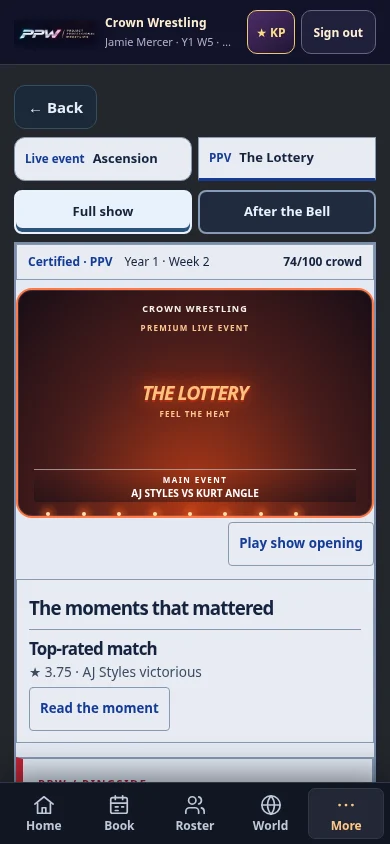
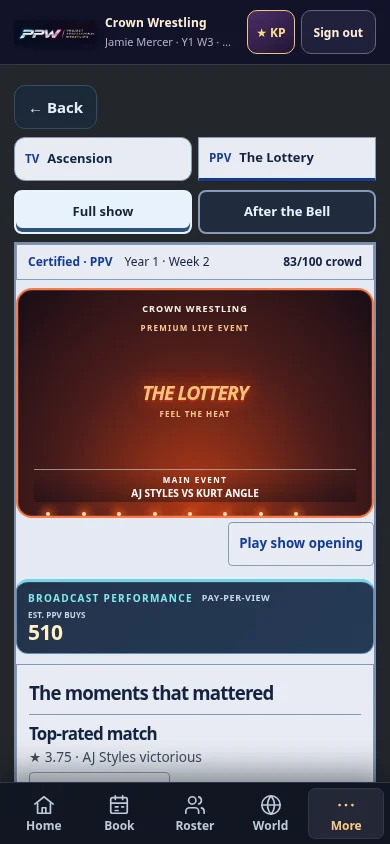
Document commercial certification and preserve the purchased result presentation

Changed region(s): [[0.0308, 0.6777, 0.9846, 0.9242], [0.0615, 0.1848, 0.4, 0.2156], [0.7385, 0.3081, 0.7692, 0.3389]]

diff --git a/tests/browser/milestone8-visual.spec.ts b/tests/browser/milestone8-visual.spec.ts
@@ -9,6 +9,7 @@ import {accessCode,disposableDatabaseUrl,managerId,promotionId} from "../fixture
 
 const worldId=process.env.PPW_M8_EXISTING_WORLD;
 const evidence=process.env.PPW_M8_EVIDENCE;
+const commercial=process.env.PPW_M8_COMMERCIAL==="1";
 test.skip(!worldId||!evidence||!process.env.PPW_M8_DATABASE_URL,
  "Use the existing disposable World from the completed authenticated journey.");
 
@@ -23,6 +24,17 @@ test("certified PPV reopens with the purchased skin and its animated event poste
    "SELECT receipt_digest AS digest FROM ppw_completed_shows WHERE world_id=$1 AND show_id='the-lottery'",
    [worldId!]));
   expect(result?.digest).toMatch(/^[a-f0-9]{64}$/);
+  if(commercial){
+   const economics=await withWorldTransaction(db.pool,tx=>tx.query<{
+    audience_format:string;ppv_buys:number|null;tv_household_rating:number|null;
+   }>(`SELECT audience_format, ppv_buys::integer, tv_household_rating::double precision
+    FROM ppw_show_economics WHERE world_id=$1 AND promotion_id=$2 AND week=2 ORDER BY audience_format`,
+    [worldId!,promotionId]));
+   expect(economics).toEqual([
+    {audience_format:"PPV",ppv_buys:expect.any(Number),tv_household_rating:null},
+    {audience_format:"TV",ppv_buys:null,tv_household_rating:expect.any(Number)},
+   ]);
+  }
   // Local evidence wallet credit supplies starting cosmetic points once. The
   // actual purchase and application still use the released game commands.
   await withWorldTransaction(db.pool,tx=>tx.query(`INSERT INTO ppw_kp_wallets(player_id,balance,lifetime_earned)
@@ -51,6 +63,16 @@ test("certified PPV reopens with the purchased skin and its animated event poste
    await archive();
    await openPpv();
    await expect(page.locator(".ppw-results")).toBeVisible();
+   await expect(page.locator(".ppw-results-event-poster [data-poster='inferno']")).toBeVisible();
+   if(commercial){
+    const week=page.getByRole("navigation",{name:"Certified shows this week"});
+    await expect(week).toContainText("PPV");
+    await week.getByRole("button",{name:/TV.*Ascension/i}).tap();
+    await expect(week.locator("[aria-current='page']")).toContainText("Ascension");
+    await page.screenshot({path:join(evidence!,"certified-tv.png"),animations:"disabled"});
+    await week.getByRole("button",{name:/PPV.*The Lottery/i}).tap();
+    await expect(week.locator("[aria-current='page']")).toContainText("The Lottery");
+   }
    await page.screenshot({path:join(evidence!,"certified-ppv.png"),animations:"disabled"});
    const after=page.getByRole("button",{name:"After the Bell",exact:true});
    await after.tap();
@@ -66,6 +88,7 @@ test("certified PPV reopens with the purchased skin and its animated event poste
    await openPpv();
    const report=page.locator(".ppw-results[data-results-skin='retro-booker-02']");
    await expect(report).toBeVisible();
+   await expect(report.locator(".ppw-results-event-poster [data-poster='inferno']")).toBeVisible();
    await page.screenshot({path:join(evidence!,"cosmetic-skin.png"),animations:"disabled"});
    await page.reload();
    await expect(report).toBeVisible();

diff --git a/docs/milestone-8-evidence/README.md b/docs/milestone-8-evidence/README.md
@@ -1,6 +1,6 @@
 # Milestone 8 verification
 
-The comparison starts at the accepted Milestone 7 release `0b2c5f940169d120811915eeff7cf603925698a3`. The tests used the production web bundle, invite authentication, HTTP adapter and manual World controls with PostgreSQL 16 and migrations 0001–0170 in separate disposable databases. The worlds used no production data or provider credentials.
+The comparison starts at the accepted Milestone 7 release `0b2c5f940169d120811915eeff7cf603925698a3`. The tests used the production web bundle, invite authentication, HTTP adapter and manual World controls with PostgreSQL 16.16 and migrations 0001–0170 in separate disposable databases. Node.js 24.22.3 and Chromium 156.0.8078.79 ran in the Personal Codex workspace. The worlds used disposable data and the harness disabled external provider credentials.
 
 ## Recorded play
 
@@ -19,6 +19,22 @@ The [four-week browser journey](four-weeks-430.mp4) uses a 430px Chromium touch 
 
 Two separately migrated databases began with World ID `m8-branch-comparison`, seed `8213`, the same cards, contracts, programme and initial championship lineage. In one, Will Ospreay won the Week 2 title match and defended in Week 4. In the other, Samoa Joe retained and completed two defences. Both produced four seals, four Crown events in weeks 1, 2, 2 and 4, and certified programme chapters in weeks 2 and 4. Alex Shelley’s existing appearance promise closed as fulfilled on Week 1 certification. A separate 320px journey signed in a new player, joined, claimed Crown Wrestling, booked, manually advanced and reached the new week. The 13-week PostgreSQL regression certified eight simulated promotions.
 
+A separate commercial fixture enabled the existing market and show economics before Week 1. The operator certified Ascension and The Lottery in the same Week 2. Ascension recorded a 0.11 TV household rating, 185,000 estimated viewers and $110,400 net. The Lottery recorded 510 estimated PPV buys and $101,400 net. The cosmetic follow-up bought and applied Retro Booker ’02 on the certified PPV and checked the wallet across reload. [Commercial PPV](candidate-certified-premium-result.webp) · [After the Bell](candidate-after-the-bell.webp) · [Selected skin and event poster](candidate-cosmetic-skin.webp)
+
+## Scenario coverage
+
+| Required scenario | Verification |
+| --- | --- |
+| New account and existing save | Real invite authentication, World join, promotion claim and first-show certification at 320px. Established Crown save checked at 390 and 430px. |
+| Ordinary booking and advanced freedom | Matched ordinary three-match trial. Steel Cage, authored finish, title and existing programme in the four-week run. Existing booking suites cover team, interference, longer matches and angles. |
+| Different creative choices and title lineage | Same starting title programme twice. One certified change of champion and a later defence. Alternative certified two defences by the original champion. |
+| Backstage consequences | Existing appearance promise fulfilled by the certified opener. Scoped promise and contract tests cover alternate outcomes, expiry, medical and renewal. |
+| Event calendar and competition | Two owner events in Week 2, distinct certified TV and PPV performance in the commercial fixture, no owner event in Week 3. |
+| Multiplayer ownership and resource clearance | Two signed browser contexts, a shared venue conflict, independent readiness and publication after authorised arbitration. [Multiplayer journey](../../tests/browser/milestone8-multiplayer.spec.ts) |
+| Refresh, retries and recoverability | Certified PPV reopened without a second wallet or result settlement. Stale booking and interruption scenarios covered by existing browser and resolver regressions. |
+| Existing cosmetics and press | Applied Retro Booker ’02 with an assigned Inferno poster, retained through browser reload. Results and press regressions cover optional presentation and immediate full-show access. |
+| Accessibility and presentation | 320, 390 and 430px mobile widths, desktop capture and four weeks with keyboard and reduced motion. |
+
 ## Comparative workloads
 
 Each baseline and candidate World size has three repeat trials using the same IDs, seed, roster sizes, scheduled card and operator request sequence. Counts below are medians. Database bytes are JSON-encoded result rows measured at the PostgreSQL client. The changed-row count is the command tag row count for INSERT, UPDATE, DELETE and MERGE. It omits affected rows inside statements whose top-level command is SELECT. Network protocol overhead, internal scanned tuples and hosted Neon billing were outside the local test.
@@ -29,7 +45,7 @@ Each baseline and candidate World size has three repeat trials using the same ID
 | 8 | 4 → 4 | 797 → 797 | 2,084 → 2,084 | 709 → 709 | 427,391 → 427,391 | 933 → 933 |
 | 13 | 4 → 4 | 1,080 → 1,080 | 3,481 → 3,481 | 1,134 → 1,134 | 718,754 → 718,754 | 1,045 → 1,045 |
 
-The measured certified-week counts and bytes changed by 0%. Wall-clock medians under concurrent test load were 690 → 4,281 ms (+520%) at two companies, 5,689 → 5,095 ms (−10%) at eight and 25,628 → 11,155 ms (−56%) at thirteen. The shared machine was running browser and regression tests at different points in the series. These noisy samples establish a workload comparison but do not isolate processing latency. [Baseline samples](baseline-workload.ndjson) · [Candidate samples](candidate-workload.ndjson)
+The measured certified-week counts and bytes changed by 0%. Wall-clock medians under concurrent test load were 690 → 4,281 ms (+520%) at two companies, 5,689 → 5,095 ms (−10%) at eight and 25,628 → 11,155 ms (−56%) at thirteen. Browser and regression tests shared the machine at different points in this first series. The elapsed-time comparison is inconclusive under that concurrent load. [Baseline samples](baseline-workload.ndjson) · [Candidate samples](candidate-workload.ndjson)
 
 | Matched request | SQL statements | Returned rows | SQL response bytes | API response bytes |
 | --- | ---: | ---: | ---: | ---: |
@@ -41,7 +57,7 @@ Each measured authenticated Home open and direct card open used one API request.
 
 Initial gzip JS/CSS decreased from **528,479 to 473,749 bytes (−10.4%)**. The initial bundle carried 387,088 → 352,291 JS bytes and 141,391 → 121,458 CSS bytes. The cold baseline Home was observed at 4,378 ms, with a warm reload at 2,596 ms. The 430px candidate recorded 3,354 ms cold and 2,162 ms warm. These local browser timings include rendering and the signed session request and vary with machine load. Warm browser reloads transferred zero JS/CSS bytes after the initial load.
 
-The authenticated single-match journey took 12 → 8 interactions (−33%) from the Home event through confirmation. Measured browser task times on the shared machine were 12.4 → 8.3 seconds. A separate three-match comparison uses identical participants, match finishes, minutes and saved records in both builds. [Booking comparison](../../tests/browser/milestone8-booking-comparison.spec.ts)
+The authenticated single-match journey took 12 → 8 interactions (−33%) from the Home event through confirmation. Measured browser task times on the shared machine were 12.4 → 8.3 seconds. In three matched ordinary three-match trials, taps fell from 30 to 18 (−40%), duration entries from 3 to 0, API requests from 8 to 6 (−25%), SQL statements from 55 to 51 (−7%) and median API bytes from 33,135 to 19,281 (−42%). Median task time was 10.5 → 3.4 seconds. Timing varied with concurrent tests. Both builds saved equivalent participants, finishes, minutes and running order. [Booking comparison](../../tests/browser/milestone8-booking-comparison.spec.ts)
 
 ## Repeat locally
 
@@ -53,6 +69,6 @@ npm exec -- tsx scripts/measure-milestone8.ts /path/to/baseline 2 one
 npm exec -- tsx scripts/measure-milestone8.ts . 2 one
 ```
 
-Use separate databases with fresh Worlds for matched baseline and candidate replicates. Repeat the benchmark with sizes 8 and 13 and replicate labels such as `two` and `three`. Set `PPW_M8_TITLE_WINNER=champion` to book the alternative title outcome. For a measured account onboarding run, use a fresh database and set `PPW_M8_COLD_START=1`.
+Use separate databases with fresh Worlds for matched baseline and candidate replicates. Repeat the benchmark with sizes 8 and 13 and replicate labels such as `two` and `three`. Set `PPW_M8_TITLE_WINNER=champion` to book the alternative title outcome or `PPW_M8_COMMERCIAL=1` to add the existing market and commercial settlement to the full journey. For a measured account onboarding run, use a fresh database and set `PPW_M8_COLD_START=1`.
 
 The mobile results describe Chromium emulation at 320, 390 and 430px. Playwright’s WebKit archive returned HTTP 403 from every configured mirror. There was no physical iPhone verification.
